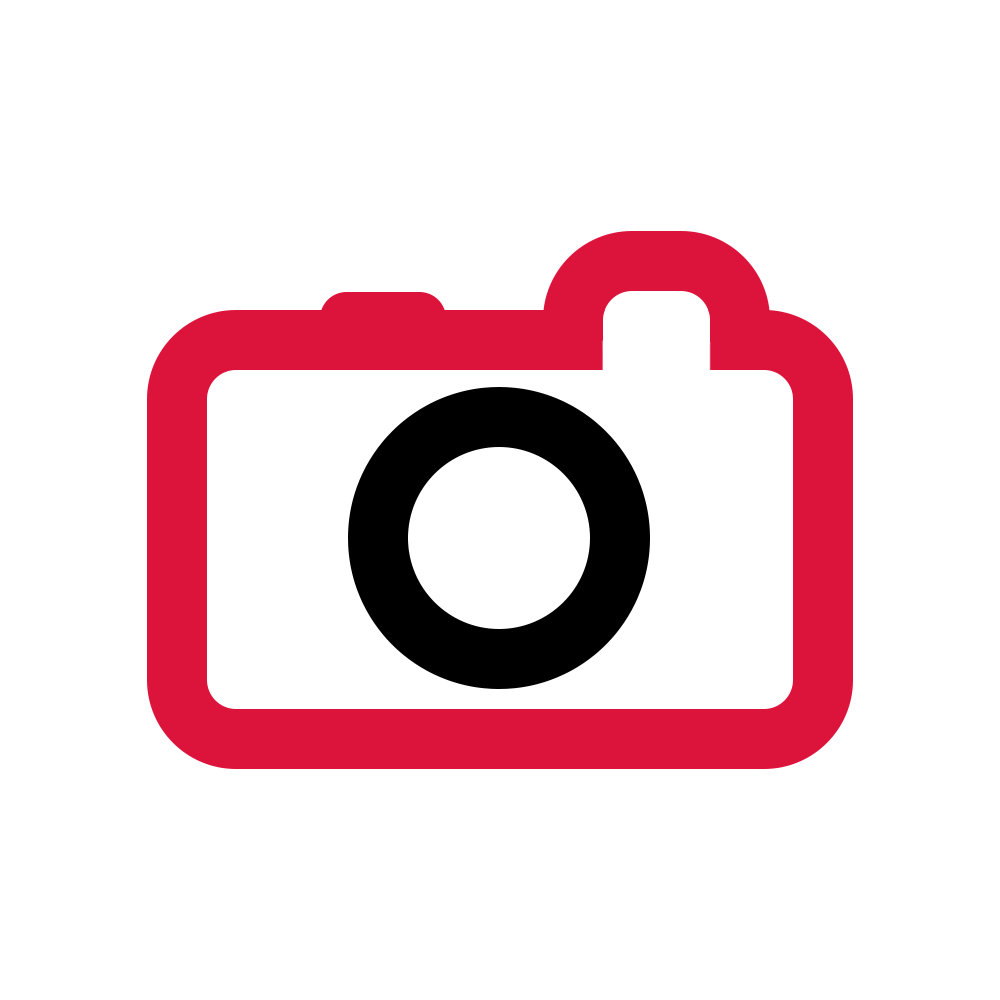
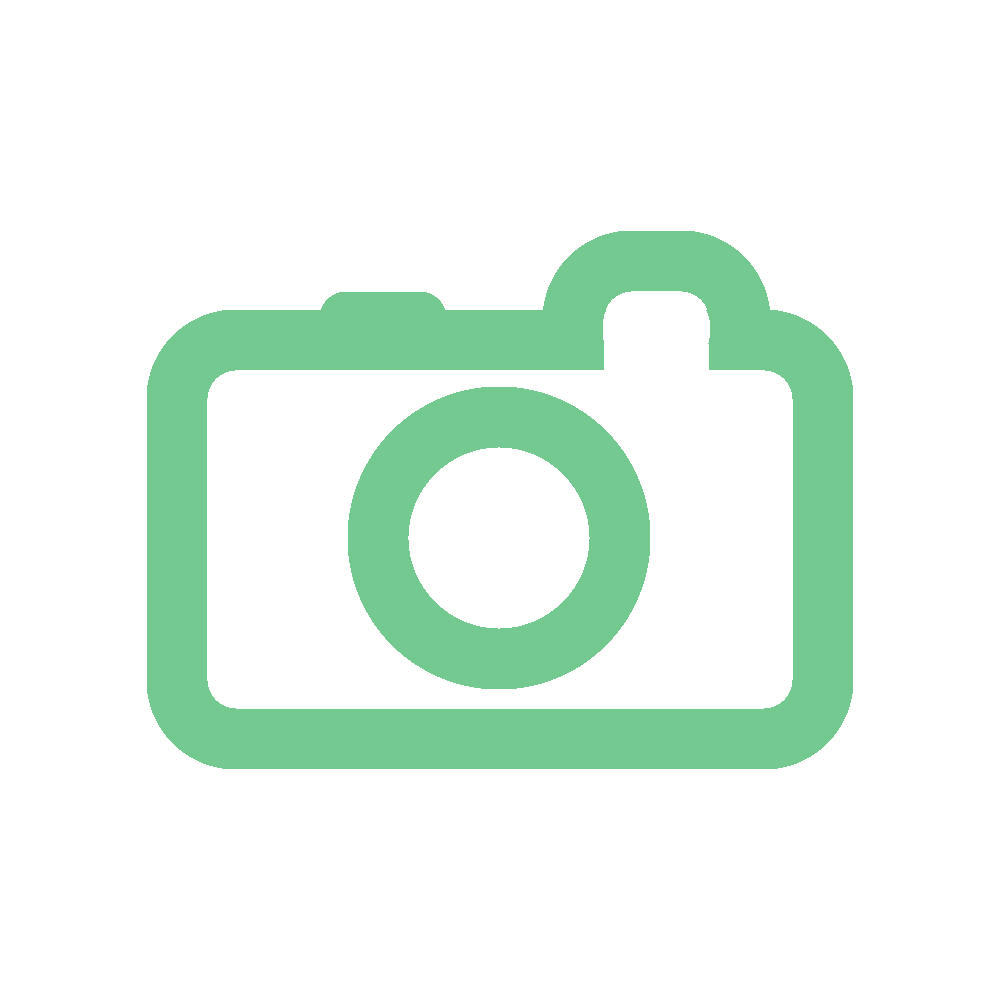
Color palette change and added google analytics

Changed region(s): [[0.124, 0.217, 0.868, 0.775]]

diff --git a/index.html b/index.html
@@ -1,6 +1,16 @@
 <!DOCTYPE html>
 <html>
 <head>
+    <!-- Global site tag (gtag.js) - Google Analytics -->
+    <script async src="https://www.googletagmanager.com/gtag/js?id=UA-141230185-1"></script>
+    <script>
+        window.dataLayer = window.dataLayer || [];
+        function gtag(){dataLayer.push(arguments);}
+        gtag('js', new Date());
+
+        gtag('config', 'UA-141230185-1');
+    </script>
+
     <title>Alaric Besharah</title>
     <meta name="viewport" content="width=device-width, initial-scale=1.0">
     <link rel="shortcut icon" href="images/logo-light.ico">
@@ -8,7 +18,7 @@
     <link href="https://fonts.googleapis.com/css?family=Titillium+Web" rel="stylesheet">
     <link href="https://fonts.googleapis.com/css?family=Roboto+Mono" rel="stylesheet">
     <link href="https://fonts.googleapis.com/css?family=Ubuntu&display=swap" rel="stylesheet">
-    <link rel="icon" href="images/brackets.png">
+    <link rel="icon" href="images/bracketsGreen.png">
     
 </head> 
 <body>
@@ -21,14 +31,14 @@
     
     <div id="page-wrap">
         
-        <img src="images/person.png" class="icon">
+        <img src="images/personGreen.png" class="icon">
         <h2>About me<div class="anchor" id="about_me"></div></h2>
         
         <p class="description">I have been interested in design and technology as far back as I can remember. Some of my earliest memories are of imagining concepts for games and creating art for them. I rediscovered this feeling of joy when I started University in 2015, where Computer Science classes showed me that my childhood passion could be a career.</p>
         
         <p class="description">I immediately fell in love with programming in my first year and knew that it was what I wanted to do with my life. During my time at university I found interests in web development, game design and development, and UI/UX design. In spring 2019 I completed my bachelor’s degree in Interactive Systems Design from the University of Saskatchewan.</p>
         
-        <img src="images/brackets.png" class="icon">
+        <img src="images/bracketsGreen.png" class="icon">
         <h2>Projects<div class="anchor" id="projects"></div></h2>
         
         <!--Pool Schedule -->
@@ -86,7 +96,7 @@
         <!-- HANABI UI -->
         <div class="contentBox">
             <h3>Hanabi Game Client</h3>
-            <p class="description">This was a term project for the class Computer Science 370, Intermediate Software Engineering. The project consisted of creating an online multiplayer version of the card game Hanabi. I designed and implemented the user interface and was heavily involved in the rest of the development of the program. This included writing requirements, designing the architecture and testing. Programmed in Java.</p>
+            <p class="description">This was a term project for the class Computer Science 370, Intermediate Software Engineering. The project consisted of creating an online multiplayer version of the card game Hanabi. I designed and implemented the user interface and was heavily involved in the rest of the development of the program. This included writing requirements, designing the architecture and testing, and construction. Programmed in Java.</p>
             
             <div class="thumbnailParent">
                 <a href="#hanabi0"><img src="images/hanabi1smol.png" class="thumbnail"></a>

diff --git a/stylesheets/style.css b/stylesheets/style.css
@@ -5,10 +5,8 @@ html {
 body{
     margin:0;
     padding:0;
-/*    font-family: 'Titillium Web', sans-serif;*/
-/*    font-family: 'Roboto Mono', monospace;*/
     font-family: 'Ubuntu', sans-serif;
-    background-color:whitesmoke;
+    background-color:rgb(33,37,43);
 }
 
 a{
@@ -16,8 +14,7 @@ a{
 }
 
 p{
-    color: rgb(100,100,100);
-/*    font-family: 'Titillium Web', sans-serif;*/
+    color: rgb(170,170,170);
 }
 
 #title{
@@ -27,11 +24,10 @@ p{
 #banner{
     width:200px;
     height:100%;
-    background-color:white;
-    background-color:rgb(253,253,253);
+    background-color:rgb(40,44,52) ;
+    background-color:rgb(50,54,62);
     position:fixed ;
     text-align: center;
-    box-shadow: 0px 0px 16px 0px rgba(0,0,0,0.25);
 }
 
 #page-wrap{
@@ -39,29 +35,22 @@ p{
     padding-left:200px;
     max-width: 1200px;
     width:calc(100% - 200px);
-    background-color:whitesmoke;
 }
 
 #logo{
-/*    font-family: 'Roboto Mono', monospace;*/
     padding-bottom: 30vh;
     font-size: 35px;
     font-weight: 800;
-    color:crimson;
-}
-
-#cart-icon{
-    float:right;
-    height:30px;
-    margin-top:30px;
-    margin-right:40px;
+    color:rgb(99,148,236);
+    color:rgb(115,201,144);
 }
 
 h2{
     position: relative;
     display:inline;
     margin-left:10px;;
-    color: rgb(70,70,70);
+    color: rgb(99,148,236);
+    color:rgb(115,201,144);
 }
 
 .anchor {
@@ -71,7 +60,7 @@ h2{
 
 h3{ 
     margin-left:30px;
-    color:rgb(50,50,50);
+    color:rgb(150,150,150);
 }
 
 .description{
@@ -84,8 +73,8 @@ h3{
     margin: auto;
     padding-bottom: 30px;
     border-bottom: solid;
-    border-width: 1px;
-    border-color: rgb(200,200,200);
+    border-width: 3px;
+    border-color: rgb(40,44,52) ;
 }
 
 .imageParent{
@@ -107,15 +96,23 @@ h3{
 }
 
 .menuItem {
-/*    font-family: 'Roboto Mono', monospace;*/
     font-size:13pt;
-    transition: 0.3s ease;
+    margin:auto;
+    margin-top:10px;
+    padding-top:5px;
+    padding-bottom: 6px;
+    border-radius: 4px;
+    width:120px;
+    transition: ease-out 0.4s;
+    color:rgb(115,201,144);
+    background-color:rgba(255,255,255,0.05);
 }
 
 .menuItem:hover{
+    background-color:rgba(255,255,255,0.4);
     cursor: pointer;
-    color:crimson;
-    transition: 0.3s ease;
+    color:white;
+    
 }
 
 .icon{
@@ -158,7 +155,7 @@ h3{
 
 .lightbox img {
 	max-width: 90%;
-	max-height: 80%;
+	max-height: 90%;
 	margin-top: 12vh;
 }
 
@@ -184,7 +181,6 @@ h3{
 }
 
 .medium{
-/*    display: none;*/
     color:white;
     text-align: center;
     font-size:15px;
@@ -245,7 +241,6 @@ h3{
     z-index: 8;
     width:100%;
     height:130px;
-    background-color:white;
     position:fixed ;
     top:0;
     text-align: center;
@@ -260,7 +255,8 @@ h3{
     
     .menuItem {
         font-size: 16px; 
-        margin-top: -10px;
+        margin-top: 0px;
+        display:inline-block;
     }
     
     #page-wrap{
@@ -281,7 +277,7 @@ h3{
     
 }
 
-@media only screen and (max-width: 350px) {
+@media only screen and (max-width: 385px) {
     #logo{
        font-size: 20px; 
     }
@@ -291,6 +287,7 @@ h3{
     }
     
     .menuItem{
-        font-size:14px;
+        font-size:5vw;
+        width:30%;
     }
 }
